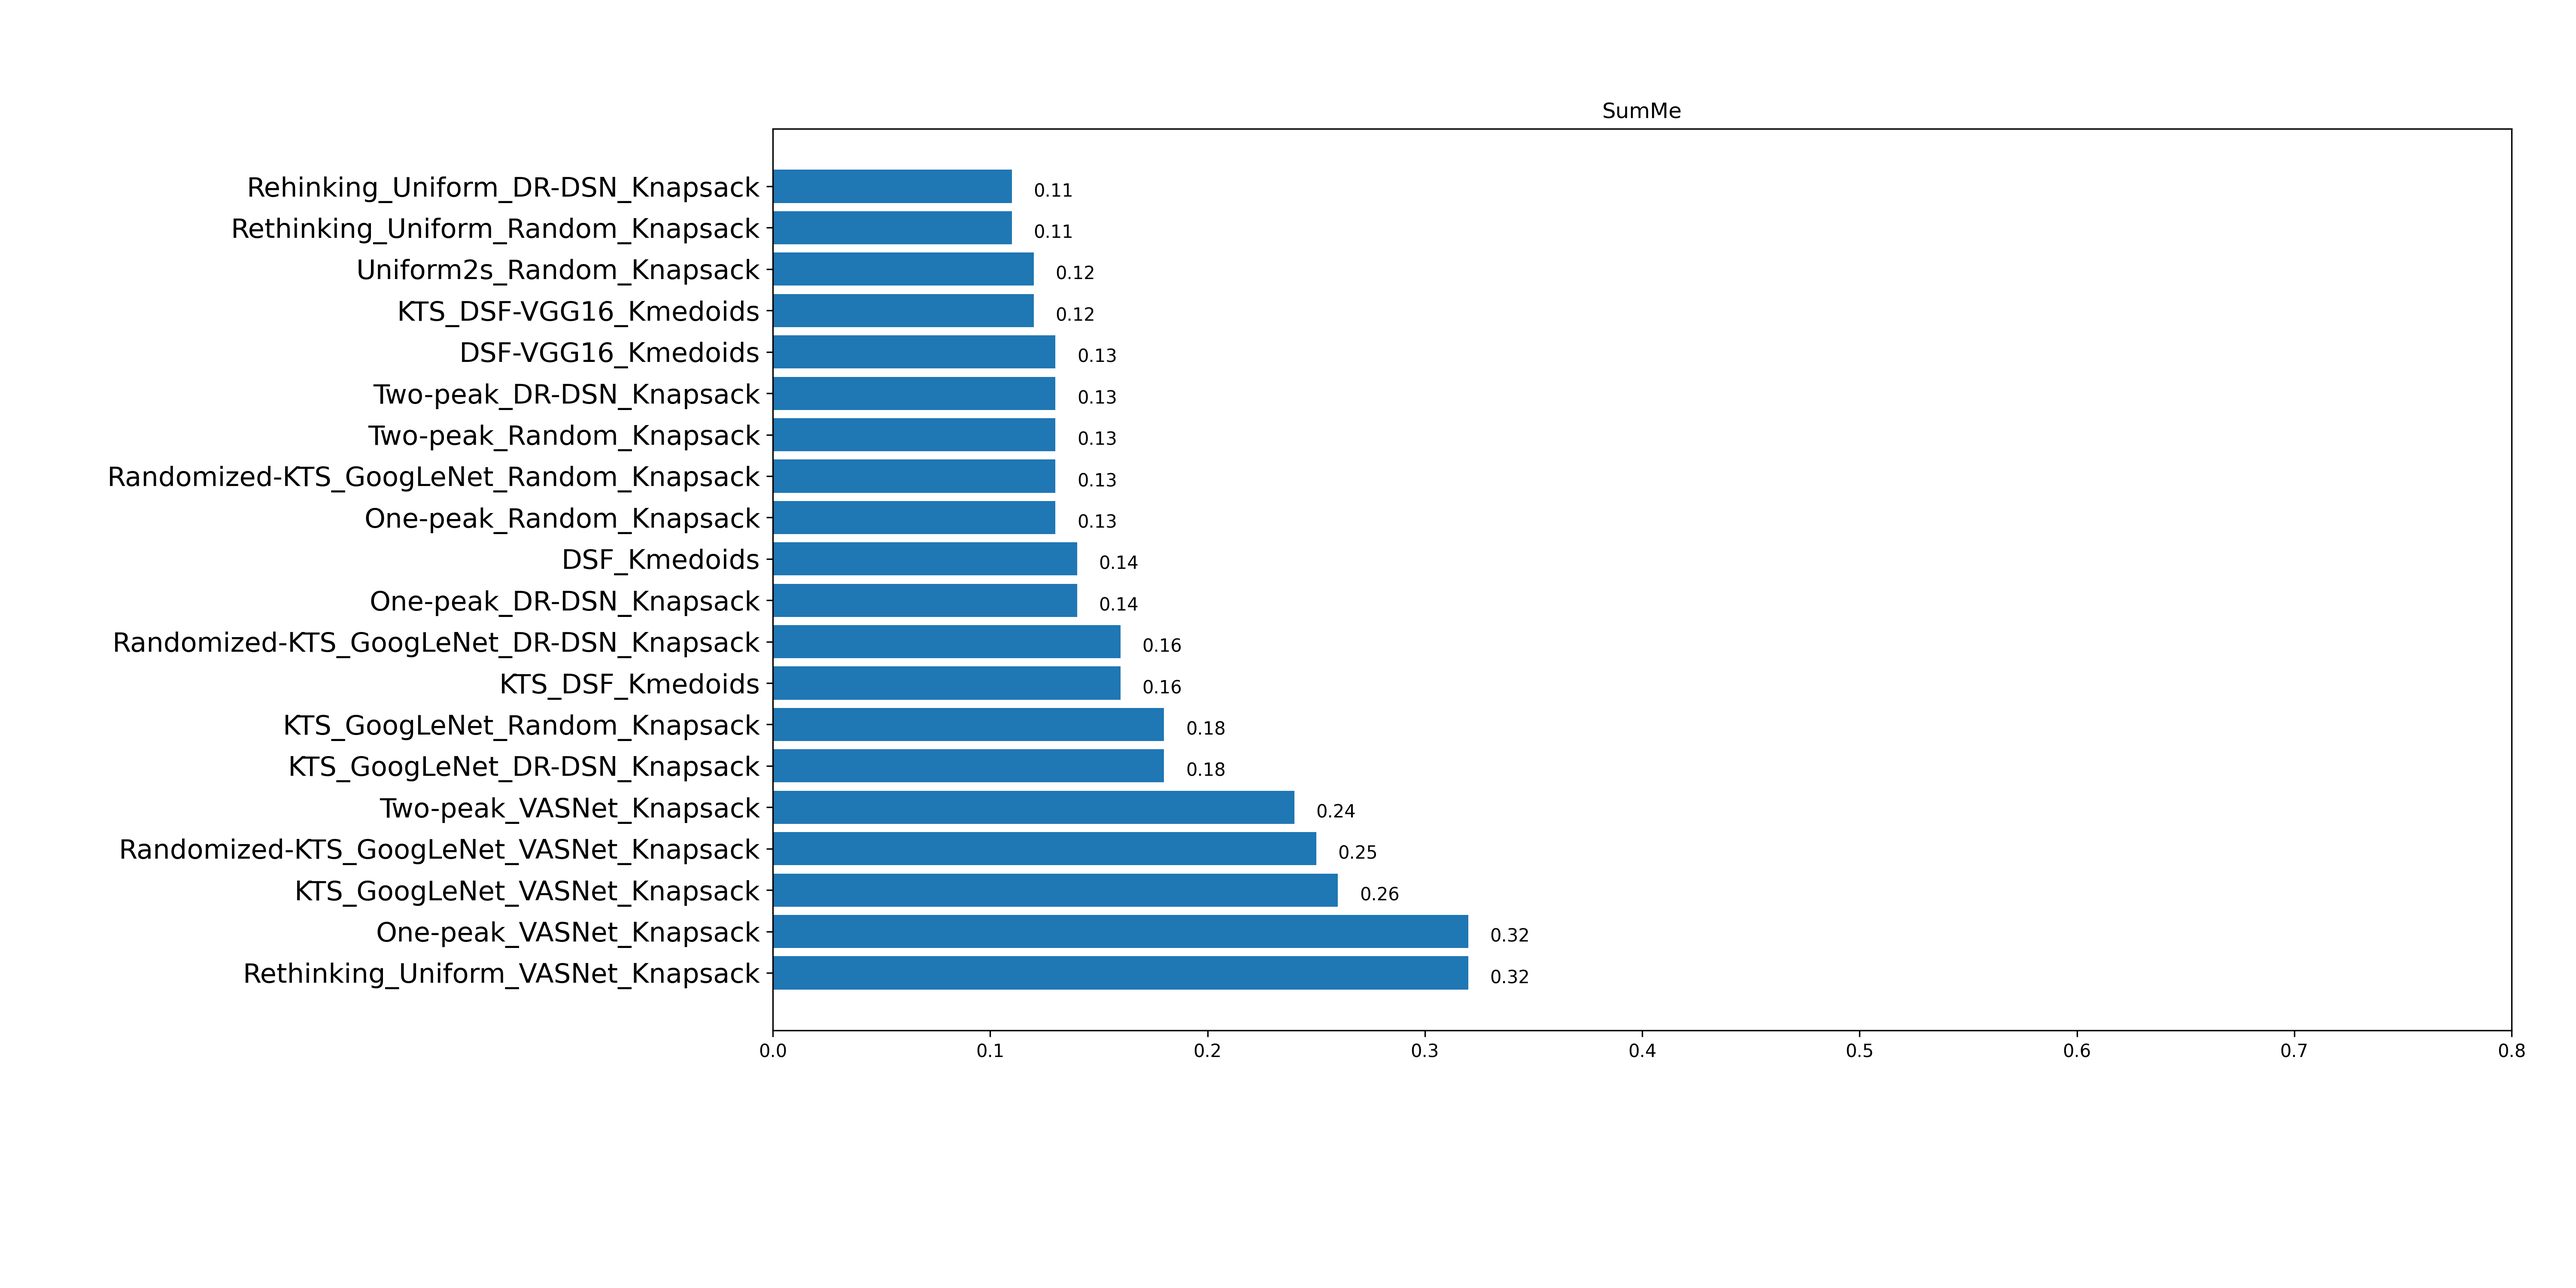
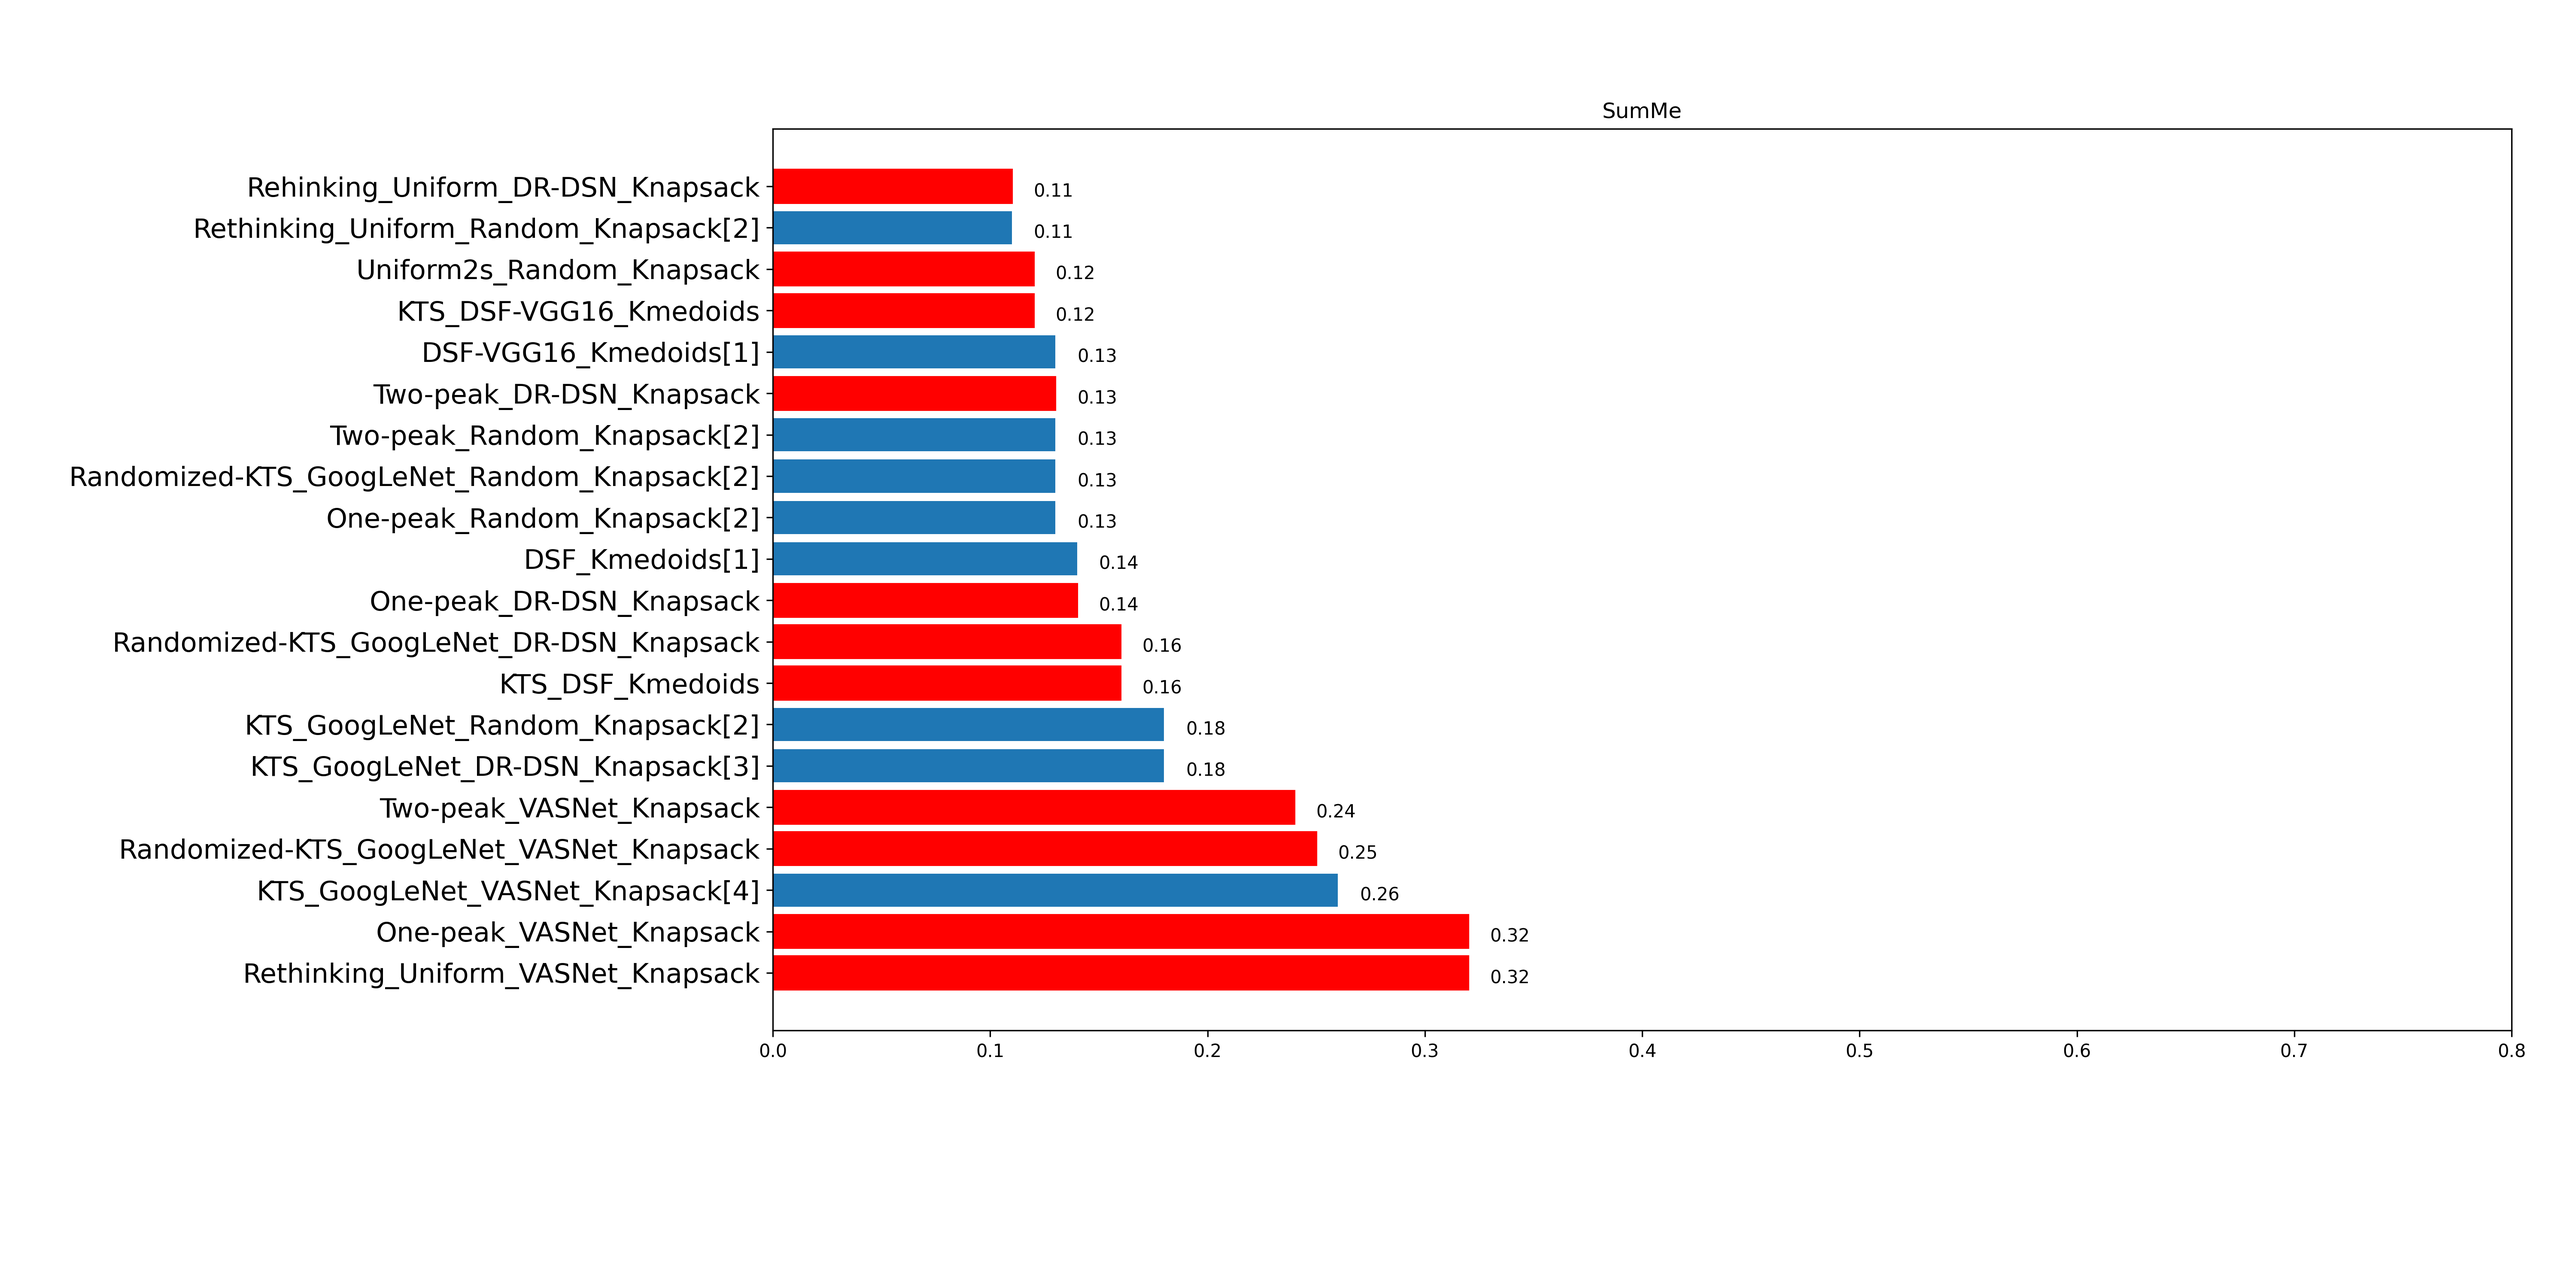
update evaluation chart

Changed region(s): [[0.0312, 0.124, 0.5922, 0.775]]

diff --git a/source/src/visualization/templates/evaluation_chart.html b/source/src/visualization/templates/evaluation_chart.html
@@ -1,19 +1,20 @@
 <!DOCTYPE html>
 <html lang="en" dir="ltr">
   <head>
-    <meta charset="utf-8">
-    <title>Evaluation</title>
-    <link rel="stylesheet" href="https://stackpath.bootstrapcdn.com/bootstrap/4.4.1/css/bootstrap.min.css" integrity="sha384-Vkoo8x4CGsO3+Hhxv8T/Q5PaXtkKtu6ug5TOeNV6gBiFeWPGFN9MuhOf23Q9Ifjh" crossorigin="anonymous">
-    <script src="https://code.jquery.com/jquery-3.4.1.slim.min.js" integrity="sha384-J6qa4849blE2+poT4WnyKhv5vZF5SrPo0iEjwBvKU7imGFAV0wwj1yYfoRSJoZ+n" crossorigin="anonymous"></script>
-    <script src="https://cdn.jsdelivr.net/npm/popper.js@1.16.0/dist/umd/popper.min.js" integrity="sha384-Q6E9RHvbIyZFJoft+2mJbHaEWldlvI9IOYy5n3zV9zzTtmI3UksdQRVvoxMfooAo" crossorigin="anonymous"></script>
-    <script src="https://stackpath.bootstrapcdn.com/bootstrap/4.4.1/js/bootstrap.min.js" integrity="sha384-wfSDF2E50Y2D1uUdj0O3uMBJnjuUD4Ih7YwaYd1iqfktj0Uod8GCExl3Og8ifwB6" crossorigin="anonymous"></script>
-    <script type="text/javascript" src="amaliajs/bower_components/jquery/dist/jquery.js"></script>
-    <script type="text/javascript" src="amaliajs/bower_components/jquery-ui/jquery-ui.min.js"></script>
-    <script type="text/javascript" src="amaliajs/bower_components/raphael/raphael.js"></script>
-    <script type="text/javascript" src="js/eval_main.js"></script>
+
   </head>
   <body>
     <img src="evaluation/SumMe_evalutaion.png"width="1800" height="900">
+    <a href="https://github.com/mayu-ot/vsum_dsf">[1]:Video Summarization using Deep Semantic Features</a>
+    <br>
+    <a href="https://github.com/mayu-ot/rethinking-evs">[2]:Rethinking the Evaluation of Video Summaries</a>
+    <br>
+    <a href="https://github.com/KaiyangZhou/pytorch-vsumm-reinforce">[3]:Unsupervised video summarization with deep reinforcement learning</a>
+    <br>
+    <a href="https://github.com/ok1zjf/VASNet">[4]:Video Summarization with Attention</a>
+    <br>
+    <a href="https://github.com/kezhang-cs/Video-Summarization-with-LSTM">[5]:Video Summarization with Long Short-term Memory</a>
     <img src="evaluation/TVSum_evalutaion.png"width="1800" height="1200">
+
   </body>
 </html>
